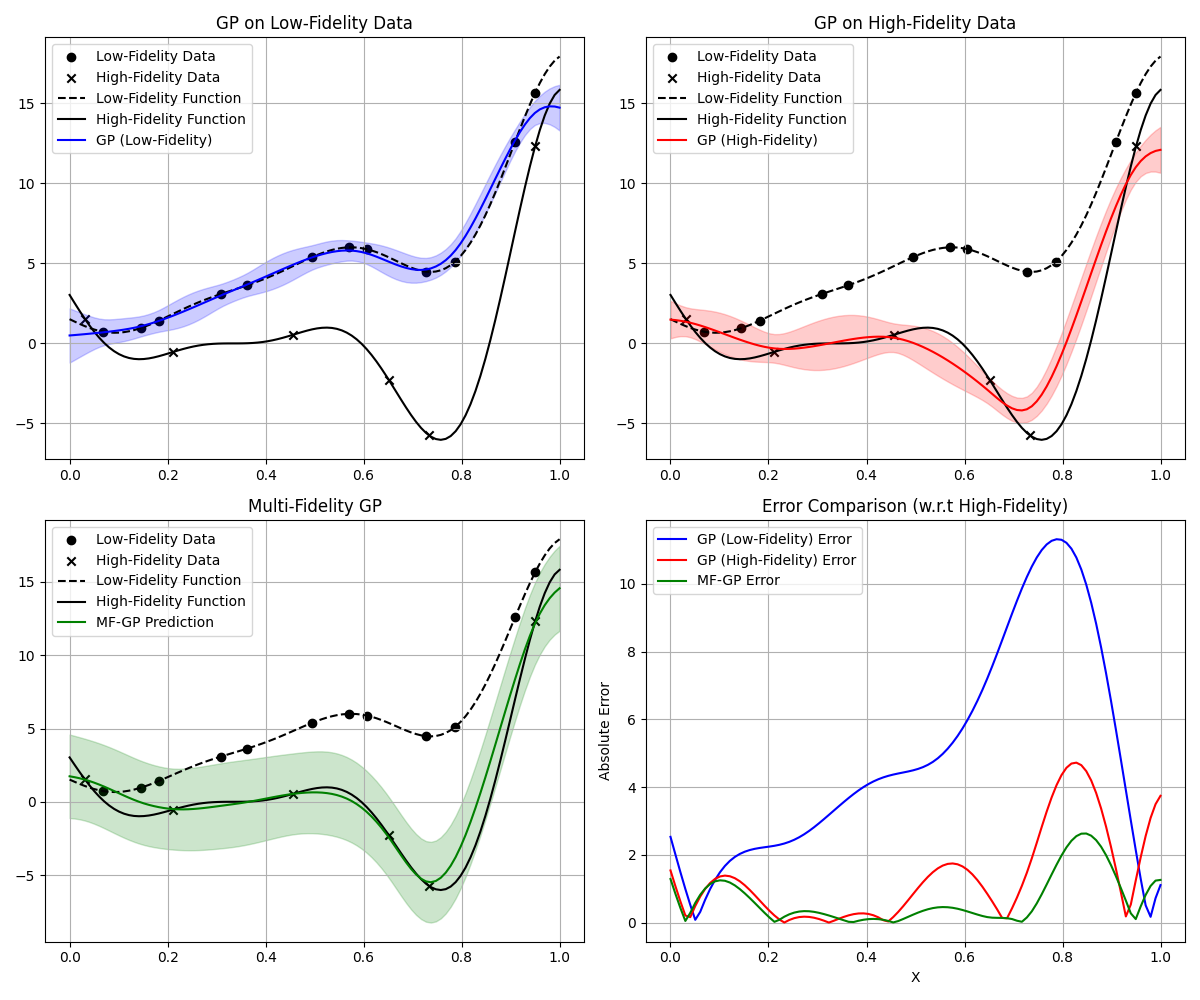
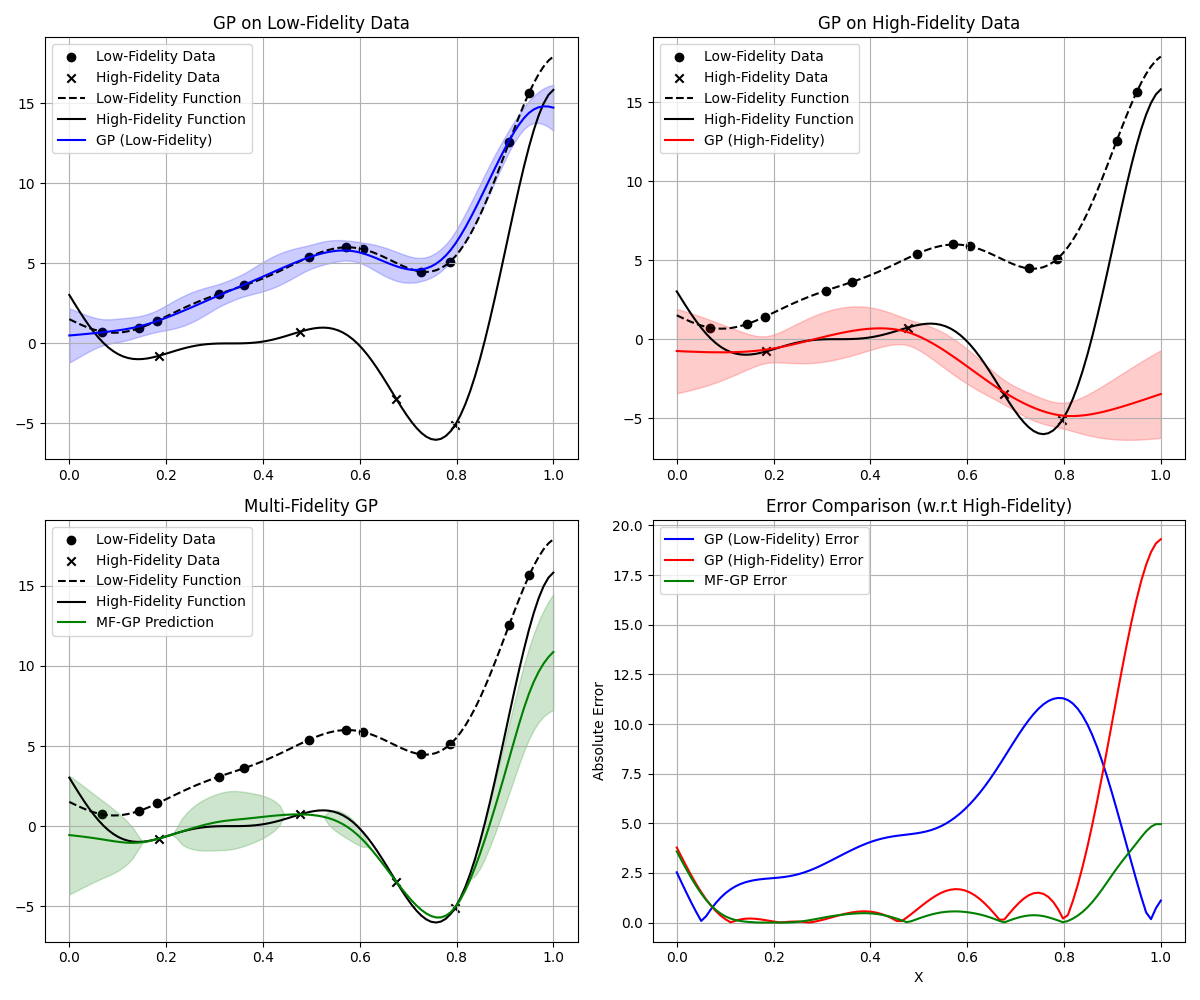
change test files accrodingly

diff --git a/test/gps/05_1D_mfgp_4.py b/test/gps/05_1D_mfgp_4.py
@@ -1,0 +1,73 @@
+import os
+
+os.environ["CUDA_VISIBLE_DEVICES"] = "0"
+os.environ["XLA_PYTHON_CLIENT_PREALLOCATE"] = "False"
+
+import jax
+jax.config.update("jax_enable_x64", True)
+
+import jax.numpy as jnp
+import jax.random as random
+import matplotlib.pyplot as plt
+from baox.surrogate.kernel import MaternKernel
+from baox.surrogate import AutoRegressiveMFGP, SingleOuputGP
+from baox.utils import generate_dataset, denormalize
+import copy
+from baox.data_types import MultiFidelityDataset
+from baox.test_functions import MFForrester
+
+bounds = (-1, 1)
+kernel = MaternKernel(lengthscale=jnp.array([1.0]), variance=1.0)
+    
+data_0 = generate_dataset(MFForrester.f_0, jnp.array([bounds]), 48, seed=1)
+data_1 = generate_dataset(MFForrester.f_1, jnp.array([bounds]), 24, seed=1)
+data_2 = generate_dataset(MFForrester.f_2, jnp.array([bounds]), 18, seed=1)
+data_3 = generate_dataset(MFForrester.f_3, jnp.array([bounds]), 8, seed=1)
+
+gp = SingleOuputGP(data_3.x_train, data_3.y_train, copy.deepcopy(kernel), noise=1e-2)
+gp.fit(steps=1000)
+
+# Train Multi-Fidelity GP
+mf_dataset = MultiFidelityDataset([data_0, data_1, data_2, data_3])
+mfgp = AutoRegressiveMFGP(mf_dataset, copy.deepcopy(kernel), noise=1e-2)
+mfgp.fit(steps=1000)
+
+# Generate test points for prediction
+X_test = jnp.linspace(0, 1, 100).reshape(-1, 1)
+x = denormalize(X_test, bounds[0], bounds[1])
+mu, var = gp.predict(X_test)
+mu_mf, var_mf = mfgp.predict(X_test)
+error = jnp.abs(mu - MFForrester.f_3(x).flatten())
+error_mf = jnp.abs(mu_mf - MFForrester.f_3(x).flatten())
+
+# Plot results
+fig, axes = plt.subplots(1, 3, figsize=(15, 5))
+
+axes[0].plot(x, MFForrester.f_3(x), label="Fidelity 3", color="black", linestyle="--", linewidth=2)
+axes[0].scatter(data_3.x, data_3.y_train, color="black", marker="x")
+axes[0].plot(x, mu, color="orange", label="GP", linewidth=2)
+axes[0].fill_between(x.flatten(), mu - 2 * jnp.sqrt(var), mu + 2 * jnp.sqrt(var), color="orange", alpha=0.2)
+axes[0].set_title("Single-Fidelity GP")
+axes[0].legend()
+
+axes[1].plot(x, MFForrester.f_3(x), label="Fidelity 3", color="black", linestyle="--", linewidth=2)
+axes[1].scatter(data_3.x, data_3.y_train, color="black", marker="x")
+axes[1].plot(x, MFForrester.f_2(x), label="Fidelity 2", color="red", linestyle="--")
+axes[1].scatter(data_2.x, data_2.y_train, color="red", marker="x")
+axes[1].plot(x, MFForrester.f_1(x), label="Fidelity 1", color="blue", linestyle="--")
+axes[1].scatter(data_1.x, data_1.y_train, color="blue", marker="x")
+axes[1].plot(x, MFForrester.f_0(x), label="Fidelity 0", color="green", linestyle="--")
+axes[1].scatter(data_0.x, data_0.y_train, color="green", marker="x")
+
+axes[1].plot(x, mu_mf, color="purple", label="MF-GP",  linewidth=2)
+axes[1].fill_between(x.flatten(), mu_mf - 2 * jnp.sqrt(var_mf), mu_mf + 2 * jnp.sqrt(var_mf), color="purple", alpha=0.2)
+axes[1].set_title("Multi-Fidelity GP")
+axes[1].legend()
+
+axes[2].plot(x, error, color="orange", label="GP - Fidelity 3")
+axes[2].plot(x, error_mf, color="purple", label="MFGP - Fidelity 3")
+axes[2].set_title("Absolute Error")
+axes[2].legend()
+
+plt.tight_layout()
+plt.savefig(f"05_1D_mfgp_4.png")

diff --git a/test/gps/03_1D_mfgp.py b/test/gps/03_1D_mfgp.py
@@ -23,7 +23,7 @@ kernel = MaternKernel(lengthscale=jnp.array([1.0]), variance=1.0)
 for f in [MFLinearA, MFLinearB]:
     
     low_f = generate_dataset(f.low_f, jnp.array([bounds]), 12, seed=2)
-    high_f = generate_dataset(f.high_f, jnp.array([bounds]), 12, seed=2)
+    high_f = generate_dataset(f.high_f, jnp.array([bounds]), 4, seed=2)
 
     # Train GP on Low-Fidelity Data Only
     gp_low = SingleOuputGP(
